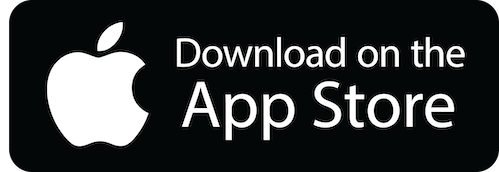
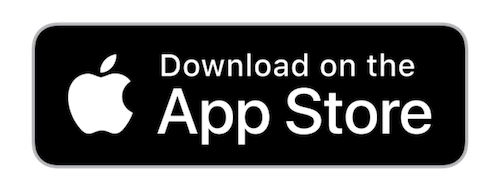
UPDATED: layout issue of the portfolio page

diff --git a/pages/portfolio/scmpv5.js b/pages/portfolio/scmpv5.js
@@ -1,4 +1,4 @@
-import { Container, Badge, Link, List, ListItem, Box, SimpleGrid, Image } from "@chakra-ui/react";
+import { Container, Badge, Link, List, ListItem, Box, SimpleGrid, Image, Divider, UnorderedList } from "@chakra-ui/react";
 import { ExternalLinkIcon } from "@chakra-ui/icons";
 import { Title, WorkImage, Meta } from "../../components/work";
 import P from '../../components/paragraph'
@@ -12,13 +12,11 @@ import src5 from "../../public/images/portfolio/scmpv5-5.webp"
 import src6 from "../../public/images/portfolio/scmpv5-6.webp"
 
 
-const srcs = [
-	src1, src2, src3, src4, src5, src6
-]
+const srcs = [src1, src2, src3, src4, src5, src6]
 
 const Work = () => {
 	return (
-		<Layout title="South China Morning Post Mobile App V5">
+		<Layout title="SCMP App V5">
 			<Container maxW="container.md">
 				<Title>
 					South China Morning Post Mobile App V5 <Badge>2020</Badge>
@@ -29,11 +27,10 @@ const Work = () => {
 				<P>
 					The app is our biggest app update ever. The update lets you explore curated content tailored to your news interests with My News, and informs you on the stories that matter to you with the redesigned top menu that allows you customise your reading preferences.
 				</P>
-				<List ml={4} my={4} spacing={4}>
+				<List mx={4} my={4} spacing={4}>
 					<ListItem>
 						<Meta>Mobile App</Meta>
-						<Link href="https://www.scmp.com">
-							https://www.scmp.com <ExternalLinkIcon mx="2px" />
+						<Link href="https://www.scmp.com" target="_blank">https://www.scmp.com <ExternalLinkIcon mx="2px" />
 						</Link>
 					</ListItem>
 					<ListItem>
@@ -42,49 +39,41 @@ const Work = () => {
 					</ListItem>
 					<ListItem>
 						<Meta>Stack</Meta>
-						<span>Swift, Kotlin, GraphQL, Firebase, Tracking, AppsFlyer, Litho, RxSwift, RxJava, InApp Purchase, Piano, WidgetKit</span>
+						<span>Swift, Kotlin, RESTFul, GraphQL, Firebase, Tracking, AppsFlyer, Litho, RxSwift, RxJava, InApp Purchase, Piano, WidgetKit</span>
 					</ListItem>
 					<ListItem>
 						<Meta>Features</Meta>
-						<Box marginLeft={5}>
-							<ul>
-								<li>Breaking news alerts to keep you updated with exclusives, explainers, live coverage and developing stories</li>
-								<li>Article bookmarking to save your favourite features and articles</li>
-								<li>My News - Follow your favourite topic/author and get five daily stories curated for you, plus a personalised feed of our most popular content</li>
-								<li>Customisable top menu so you can move what matters to the top</li>
-								<li>Resigned quick-access menu to browse articles with ease and speed</li>
-								<li>Store articles under Reading history for later browsing</li>
-							</ul>
+						<UnorderedList>
+							<ListItem>Breaking news alerts to keep you updated with exclusives, explainers, live coverage and developing stories</ListItem>
+							<ListItem>Article bookmarking to save your favourite features and articles</ListItem>
+							<ListItem>My News - Follow your favourite topic/author and get five daily stories curated for you, plus a personalised feed of our most popular content</ListItem>
+							<ListItem>Customisable top menu so you can move what matters to the top</ListItem>
+							<ListItem>Resigned quick-access menu to browse articles with ease and speed</ListItem>
+							<ListItem>Store articles under Reading history for later browsing</ListItem>
+						</UnorderedList>
+					</ListItem>
+					<ListItem>
+						<Meta>Download</Meta>
+						<Box display={{ sm: 'flex' }} align='center' alignItems="center">
+							<Link
+								href="https://apps.apple.com/hk/app/south-china-morning-post/id623201967?l=en"
+								target="_blank">
+								<Image maxW={200} src="/images/appstore.png" alt="Download on App Store" />
+							</Link>
+							<Link
+								href="https://play.google.com/store/apps/details?id=com.scmp.newspulse"
+								target="_blank">
+								<Image maxW={200} src="/images/googleplay.png" alt="Download on Google Play" />
+							</Link>
 						</Box>
 					</ListItem>
 				</List>
-				<Box my={10} display="flex" alignItems="center">
-					<Link
-						href="https://apps.apple.com/hk/app/south-china-morning-post/id623201967?l=en"
-						target="_blank">
-						<Image
-							maxW={200}
-							src="/images/appstore.png"
-							alt="Download on App Store"
-						/>
-					</Link>
-					<Link
-						ml={2}
-						href="https://play.google.com/store/apps/details?id=com.scmp.newspulse"
-						target="_blank">
-						<Image
-							maxW={200}
-							src="/images/googleplay.png"
-							alt="Download on Google Play"
-						/>
-					</Link>
-				</Box>
-				<SimpleGrid mt={6} columns={[1, 1, 2, 3]} columnGap={2}>
+				<Divider my={4} colorScheme="green" />
+				<SimpleGrid mt={6} columns={[1, 2, 2, 3]} columnGap={2}>
 					{srcs.map((src) => (
-						<WorkImage key={src} src={src} alt="scmpv5" />
+						<WorkImage key={src} src={src} alt="Scmp v5 App" />
 					))}
 				</SimpleGrid>
-
 			</Container>
 		</Layout>
 	)

diff --git a/pages/portfolio/takealook.js b/pages/portfolio/takealook.js
@@ -1,4 +1,4 @@
-import { Container, Badge, Link, List, ListItem, Box } from "@chakra-ui/react";
+import { Container, Badge, Link, List, ListItem, Box, Divider } from "@chakra-ui/react";
 import { ExternalLinkIcon } from "@chakra-ui/icons";
 import { Title, WorkImage, Meta } from "../../components/work";
 import P from '../../components/paragraph'
@@ -11,14 +11,12 @@ import src4 from "../../public/images/portfolio/takealook-4.png"
 import src5 from "../../public/images/portfolio/takealook-5.png"
 import src6 from "../../public/images/portfolio/takealook-6.png"
 
-const srcs = [
-	src1, src2, src3, src4, src5, src6
-]
+const srcs = [src1, src2, src3, src4, src5, src6]
 
 const Work = () => {
 	return (
 		<Layout title="Take A Look">
-			<Container maxW="container.lg">
+			<Container maxW="container.md">
 				<Title>
 					Take A Look <Badge>2016</Badge>
 				</Title>
@@ -34,14 +32,15 @@ const Work = () => {
 					</ListItem>
 					<ListItem>
 						<Meta>Stack</Meta>
-						<span>Laravel, PHP, ReactJS, Javascript, MariaDB, Redis, AWS, CentOS</span>
+						<span>Laravel, PHP, ReactJS, Javascript, MariaDB, Redis, AWS, CentOS, Docker</span>
 					</ListItem>
 					<ListItem>
 						<Meta>Features</Meta>
 						<span>Comprehensive CMS, Live Chat, Shopping Cart, Online Payment with AsiaPay, Over 11 Countries Activity for booking</span>
 					</ListItem>
 				</List>
-				<Box pt={6} sx={{ columnCount: [1, 1, 2, 3], columnGap: "12px" }}>
+				<Divider my={4} />
+				<Box pt={6} sx={{ columnCount: [1, 1, 2, 2], columnGap: "12px" }}>
 					{srcs.map((src) => (
 						<WorkImage key={src} src={src} alt="TakeALook" />
 					))}

diff --git a/components/navbar.js b/components/navbar.js
@@ -25,7 +25,7 @@ const LinkItem = ({ href, path, _target, children, ...props }) => {
 		<NextLink href={href} passHref>
 			<Link
 				p={2}
-				bg={active ? 'glassTeal' : undefined}
+				bg={active ? 'cyan' : undefined}
 				color={active ? '#202023' : inactiveColor}
 				_target={_target}
 				{...props}>
@@ -43,7 +43,7 @@ const Navbar = props => {
 			as="nav"
 			w="100%"
 			bg={useColorModeValue('#ffffff40', '#20202380')}
-			style={{ backdropFilter: 'blur(10px)', WebkitBackdropFilter:'blur(10px)' }}
+			style={{ backdropFilter: 'blur(12px)', WebkitBackdropFilter:'blur(12px)' }}
 			zIndex={1}
 			{...props}
 		>

diff --git a/components/grid-item.js b/components/grid-item.js
@@ -30,7 +30,7 @@ export const PortfolioGridItem = ({ children, id, title, thumbnail }) => (
 					/>
 				</Box>
 				<LinkOverlay href={`/portfolio/${id}`}>
-					<Text mt={3} fontSize={18} fontWeight="bold" font-family="M PLUS Rounded 1c">
+					<Text mt={3} fontSize={18} fontWeight="bold" fontFamily="M PLUS Rounded 1c">
 						{title}
 					</Text>
 				</LinkOverlay>
@@ -48,7 +48,7 @@ export const GridItemStyle = () => (
 	.grid-item-thumbnail {
 		transition: 500ms ease;
 	}
-	.grid-item-thumbnail img{
+	.grid-item-thumbnail img {
 		border-radius: 12px;
 	}
 	`}

diff --git a/components/work.js b/components/work.js
@@ -20,17 +20,13 @@ export const Title = ({ children }) => (
 )
 
 export const WorkImage = ({ src, alt }) => (
-	<Box className='grid-item-linkbox' cursor="pointer">
-		<Box className='grid-item-thumbnail'>
-			<Image src={src} 
-			alt={alt} 
-			placeholder='blur' />
-		</Box>
+	<Box cursor="pointer" className='grid-item-thumbnail'>
+		<Image src={src} alt={alt} placeholder='blur' />
 	</Box>
 )
 
 export const Meta = ({ children }) => (
-	<Badge colorScheme="green" mr={2}>
+	<Badge colorScheme="teal" mr={2}>
 		{children}
 	</Badge>
 )

diff --git a/components/layouts/article.js b/components/layouts/article.js
@@ -13,7 +13,7 @@ const Layout = ({ children, title }) => (
 		<>
 			{title && (
 				<Head>
-					<title>{title} - WOO Yu Kit Vincent</title>
+					<title>{title} - Vincent</title>
 				</Head>
 			)}
 			{children}

diff --git a/lib/theme.js b/lib/theme.js
@@ -25,7 +25,7 @@ const components = {
 	},
 	Link: {
 		baseStyle: props => ({
-			color: mode('#3d7aed', '#ff63c3')(props),
+			color: mode('#3d7aed', 'cyan')(props),
 			textUnderlineOffset: 3
 		})
 	}
